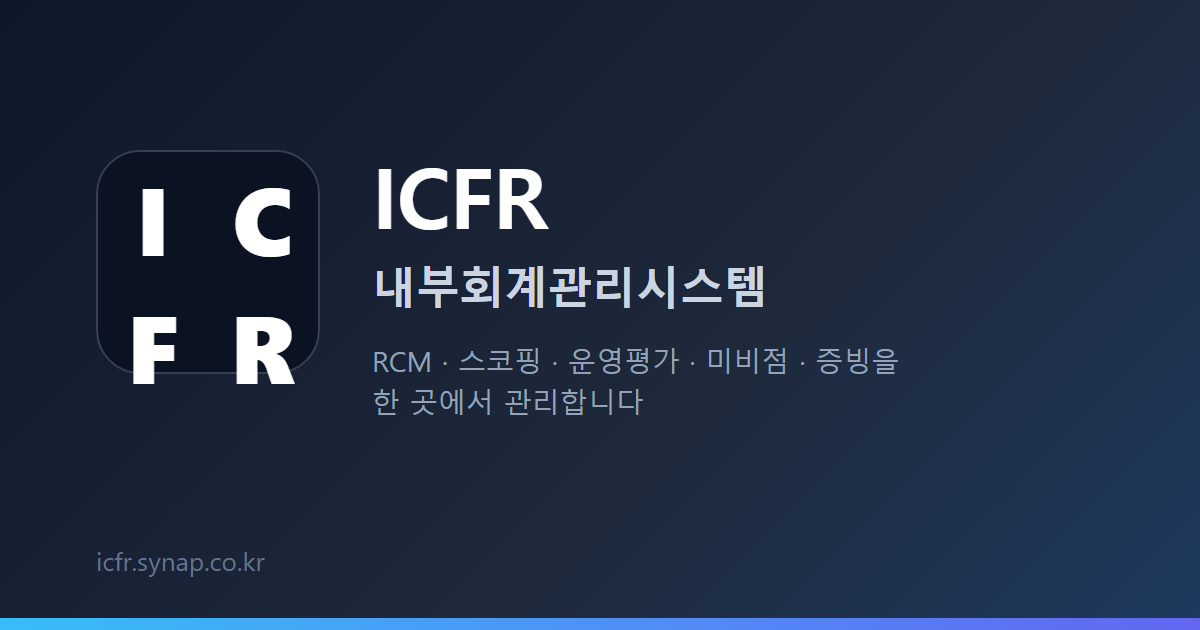
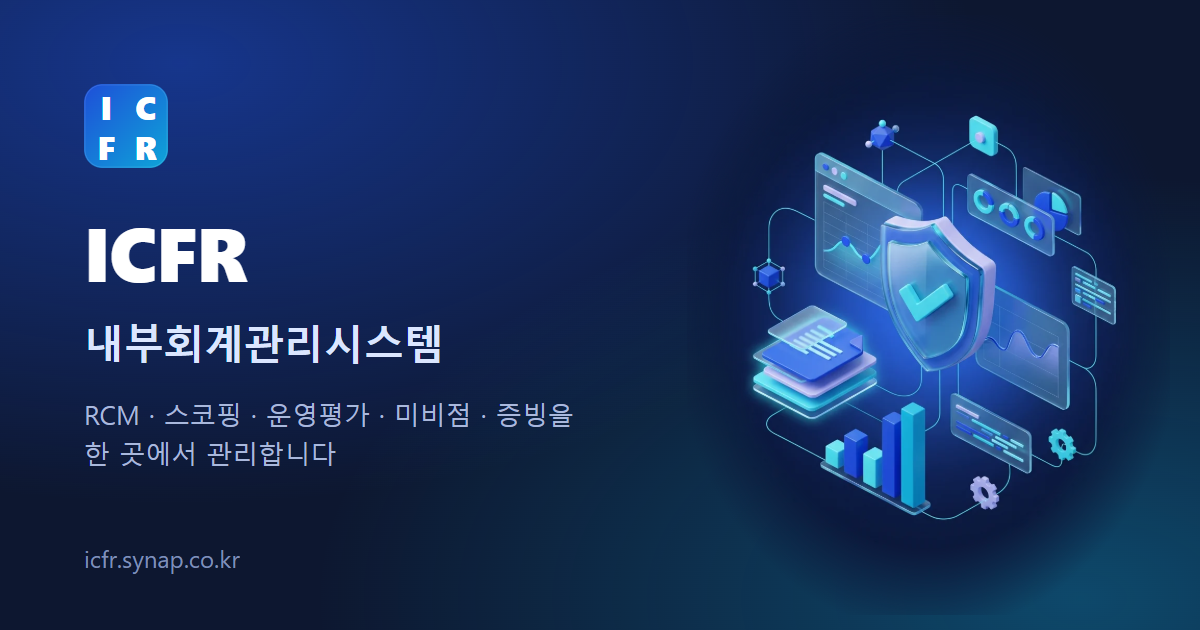
feat(ui): AI 일러스트 9종(synapvideo) 적용 + 아이콘·OG 브랜드 통일 — 13.9-79

diff --git a/frontend/src/components/illustration/manifest.ts b/frontend/src/components/illustration/manifest.ts
@@ -6,12 +6,13 @@
  * 이미지 생성 스크립트(`scripts/gen_illustrations.py`)도 이 파일의 프롬프트를 읽는다 — 프롬프트를 고치면
  * 이 파일만 고친다.
  *
- * 공통 화풍(STYLE)을 모든 프롬프트 앞에 붙여 한 세트로 보이게 한다.
+ * 공통 화풍(STYLE)을 모든 프롬프트 앞에 붙여 한 세트로 보이게 한다. 배경은 놓일 자리에 맞춰 슬롯마다 정한다 —
+ * 밝은 화면용은 흰 배경(화면에서 multiply 로 카드에 녹인다), 로그인 남색 패널용은 남색 배경.
  */
 export const STYLE =
   'Premium enterprise SaaS illustration, soft 3D isometric style, glossy glass and matte surfaces, ' +
   'cobalt blue (#1f4fd1) and cyan (#12a4d9) palette with soft lavender accents, gentle gradients, ' +
-  'clean white background, subtle soft shadows, calm and trustworthy mood, high detail, ' +
+  'subtle soft shadows, calm and trustworthy mood, high detail, ' +
   'no text, no letters, no numbers, no logos, no watermark'
 
 export type IllustrationSlot =
@@ -26,6 +27,8 @@ export type IllustrationSlot =
   | 'empty-finance'
 
 export interface SlotSpec {
+  /** 어두운 배경으로 생성 — 밝은 화면용(흰 배경)은 multiply 로 카드에 녹이고, 어두운 것은 그대로 둔다 */
+  dark?: boolean
   /** 화면에서의 가로세로비 (생성 크기 선택에도 쓴다) */
   aspect: 'portrait' | 'landscape' | 'square' | 'wide'
   alt: string
@@ -35,51 +38,53 @@ export interface SlotSpec {
 export const SLOTS: Record<IllustrationSlot, SlotSpec> = {
   'login-hero': {
     aspect: 'portrait',
+    dark: true,
     alt: '재무 데이터와 통제 체크리스트가 떠 있는 일러스트',
     prompt:
       'A floating composition of translucent financial dashboard cards, a shield with a checkmark, ' +
-      'stacked documents and a bar chart, connected by thin glowing lines, representing internal control over financial reporting',
+      'stacked documents and a bar chart, connected by thin glowing lines, representing internal control over financial reporting, ' +
+      'set on a seamless deep navy blue background (#101a3c) with a soft cobalt glow behind the objects, objects lit with cyan rim light',
   },
   'dashboard-hero': {
     aspect: 'wide',
     alt: '진행 현황을 보여주는 대시보드 일러스트',
     prompt:
       'A wide banner scene: a calm workspace of floating analytics panels, a progress ring, a calendar tile and a checklist, ' +
-      'arranged left to right with generous empty space on the left half for overlaid text',
+      'arranged left to right with generous empty space on the left half for overlaid text, clean pure white background',
   },
   'empty-default': {
     aspect: 'square',
     alt: '빈 상자 일러스트',
-    prompt: 'A single open empty box made of frosted glass with a small sparkle, minimal composition, centered',
+    prompt: 'A single open empty box made of frosted glass with a small sparkle, minimal composition, centered, clean pure white background',
   },
   'empty-search': {
     aspect: 'square',
     alt: '돋보기 일러스트',
-    prompt: 'A glass magnifying glass hovering over a blank card, minimal composition, centered',
+    prompt: 'A glass magnifying glass hovering over a blank card, minimal composition, centered, clean pure white background',
   },
   'empty-upload': {
     aspect: 'square',
     alt: '문서 업로드 일러스트',
-    prompt: 'A document with an upward arrow rising from a soft cloud tray, minimal composition, centered',
+    prompt: 'A document with an upward arrow rising from a soft cloud tray, minimal composition, centered, clean pure white background',
   },
   'empty-report': {
     aspect: 'square',
     alt: '보고서 일러스트',
-    prompt: 'A neat report document with a small pie chart and a signature line, minimal composition, centered',
+    prompt: 'A neat report document with a small pie chart and a signature line, minimal composition, centered, clean pure white background',
   },
   'empty-checklist': {
     aspect: 'square',
     alt: '체크리스트 일러스트',
-    prompt: 'A clipboard checklist with three rows and one glowing checkmark, minimal composition, centered',
+    prompt: 'A clipboard checklist with three rows and one glowing checkmark, minimal composition, centered, clean pure white background',
   },
   'empty-people': {
     aspect: 'square',
     alt: '팀 일러스트',
-    prompt: 'Three abstract rounded person avatars on a soft platform connected by lines, minimal composition, centered',
+    prompt: 'Three abstract rounded person avatars on a soft platform connected by lines, minimal composition, centered, clean pure white background',
   },
   'empty-finance': {
     aspect: 'square',
     alt: '재무제표 일러스트',
-    prompt: 'A balance scale made of glass with stacked coins and a ledger sheet, minimal composition, centered',
+    prompt: 'A balance scale made of glass with stacked coins and a ledger sheet, minimal composition, centered, clean pure white background',
   },
 }

diff --git a/frontend/src/features/dashboard/components/WelcomeHero.tsx b/frontend/src/features/dashboard/components/WelcomeHero.tsx
@@ -19,6 +19,9 @@ export default function WelcomeHero() {
   return (
     <section className="relative overflow-hidden rounded-2xl border border-border/70 bg-card shadow-card">
       <div className="absolute inset-0 bg-[radial-gradient(ellipse_at_top_left,hsl(var(--brand-from)/0.10),transparent_60%),radial-gradient(ellipse_at_bottom_right,hsl(var(--brand-to)/0.10),transparent_55%)]" />
+      {/* 배너 오른쪽 그림 — 왼쪽은 글자 자리라 그림이 오른쪽에 몰려 있다. 좁은 화면에서는 숨긴다 */}
+      <Illustration slot="dashboard-hero"
+        className="pointer-events-none absolute inset-y-0 right-0 hidden h-full w-[62%] object-cover object-right md:block [mask-image:linear-gradient(to_right,transparent,black_35%)]" />
       <div className="relative grid items-center gap-4 p-6 md:grid-cols-[1fr_auto] md:p-8">
         <div className="min-w-0">
           <p className="flex items-center gap-1.5 text-xs font-medium text-muted-foreground">
@@ -44,7 +47,7 @@ export default function WelcomeHero() {
             ))}
           </div>
         </div>
-        <Illustration slot="dashboard-hero" className="hidden h-36 w-[300px] md:block lg:h-40 lg:w-[360px]" />
+        <div className="hidden md:block md:w-[220px] lg:w-[300px]" aria-hidden="true" />
       </div>
     </section>
   )

diff --git a/frontend/src/components/illustration/EmptyState.tsx b/frontend/src/components/illustration/EmptyState.tsx
@@ -25,7 +25,8 @@ export default function EmptyState({
   return (
     <div className={cn('flex flex-col items-center justify-center rounded-xl border border-dashed bg-card/60 text-center',
       compact ? 'gap-2 px-4 py-6' : 'gap-3 px-6 py-10', className)}>
-      <Illustration slot={slot} className={compact ? 'h-20 w-20' : 'h-32 w-32'} />
+      {/* 생성 배경이 완전한 흰색이 아니라 가장자리를 원형으로 사라지게 한다 — 카드 위에 사각 경계가 남지 않게 */}
+      <Illustration slot={slot} className={cn(compact ? 'h-24 w-24' : 'h-36 w-36', '[mask-image:radial-gradient(circle,black_48%,transparent_70%)]')} />
       <p className="text-[15px] font-semibold text-foreground">{title}</p>
       {description && <div className="max-w-md text-sm text-muted-foreground">{description}</div>}
       {action && <div className="mt-1">{action}</div>}

diff --git a/frontend/src/layouts/AuthLayout.tsx b/frontend/src/layouts/AuthLayout.tsx
@@ -26,7 +26,9 @@ export default function AuthLayout() {
           </div>
         </div>
         <div className="relative z-10 flex flex-1 items-center justify-center px-12">
-          <Illustration slot="login-hero" eager className="aspect-[4/5] w-full max-w-[420px] drop-shadow-2xl" />
+          {/* 그림 가장자리를 패널 남색으로 서서히 사라지게 — 사각 경계가 보이지 않게 */}
+          <Illustration slot="login-hero" eager
+            className="aspect-[4/5] w-full max-w-[440px] [mask-image:radial-gradient(ellipse_at_center,black_55%,transparent_78%)]" />
         </div>
         <div className="relative z-10 px-12 pb-12">
           <h2 className="text-[28px] font-bold leading-snug tracking-tight">

diff --git a/frontend/src/components/illustration/Illustration.tsx b/frontend/src/components/illustration/Illustration.tsx
@@ -23,7 +23,7 @@ export default function Illustration({ slot, className, eager }: { slot: Illustr
         loading={eager ? 'eager' : 'lazy'}
         decoding="async"
         draggable={false}
-        className={cn('select-none object-contain', className)}
+        className={cn('select-none object-contain', !spec.dark && 'mix-blend-multiply', className)}
       />
     )
   }

diff --git a/scripts/gen_illustrations.py b/scripts/gen_illustrations.py
@@ -1,26 +1,31 @@
-"""화면 일러스트 생성 — `frontend/src/components/illustration/manifest.ts` 의 슬롯·프롬프트로 이미지를 만든다.
+"""화면 일러스트 생성 — synapvideo(사내 AI 이미지) `POST /images` 로 `manifest.ts` 의 슬롯을 만든다.
 
-**API 키는 이 파일이나 저장소에 두지 않는다**(CLAUDE.md §5). 이 PC 의 Windows 자격 증명 관리자에서 읽는다:
-    서비스 `icfr-image-api` / 사용자 `api_key`   (키)
-    서비스 `icfr-image-api` / 사용자 `base_url`  (게이트웨이 주소 — 비밀은 아니지만 키와 함께 둔다)
-등록·교체는 python -c "import keyring; keyring.set_password('icfr-image-api','api_key','<키>')" 로 한다.
+**API 키는 이 파일이나 저장소에 두지 않는다**(CLAUDE.md §5, synapvideo 안내서 §8). 이 PC 의 Windows 자격 증명
+관리자에서 읽는다:
+    서비스 `icfr-image-api` / 사용자 `api_key`   (svk_… 키)
+    서비스 `icfr-image-api` / 사용자 `base_url`  (https://video.synap.co.kr/api/v1)
+교체: python -c "import keyring; keyring.set_password('icfr-image-api','api_key','<키>')"
 
-호출 형식은 OpenAI 호환 이미지 API(`POST {base_url}/images/generations`, 응답 `data[0].b64_json` 또는 `url`)를
-기본으로 한다. 게이트웨이 형식이 다르면 `call_api()` 만 고친다.
+synapvideo 규칙(GET /guide·/policy — 판이 바뀌면 다시 읽는다):
+- 견적이 자동 승인 금액(policy.cost.autoApproveKrw) 이하면 만들자마자 생성된다. 넘으면 **이 스크립트는 승인하지 않고 멈춘다**
+  — 사람이 금액을 보고 승인해야 한다(--approve 를 줄 때만 승인 호출).
+- 요청자 이메일(user.email) 필수(정책 defaultRequester 가 비어 있음) — --email 또는 기본값.
+- 모든 응답의 X-Guide-Version·X-Policy-Version 을 기억해 두었다가(~/.icfr/synapvideo_versions.json) 바뀌면 다시 읽고 알린다.
 
 사용:
-    python scripts/gen_illustrations.py                 # 없는 슬롯만 생성
-    python scripts/gen_illustrations.py login-hero      # 지정 슬롯만(덮어쓰기)
-    python scripts/gen_illustrations.py --all --variants 2   # 전부, 슬롯당 후보 2장(_v1, _v2 로 저장 → 골라서 이름 변경)
+    python scripts/gen_illustrations.py --me                     # 연결·한도 확인
+    python scripts/gen_illustrations.py                          # 없는 슬롯만
+    python scripts/gen_illustrations.py login-hero --variants 3  # 지정 슬롯 후보 3장(_v1.._v3) → 골라 <slot>.webp 로
 출력: frontend/src/assets/illustrations/<slot>.webp (긴 변 최대 1200px, 품질 86)
 """
 from __future__ import annotations
 
 import argparse
-import base64
 import io
+import json
 import re
 import sys
+import time
 from pathlib import Path
 
 import keyring
@@ -30,9 +35,62 @@ from PIL import Image
 ROOT = Path(__file__).resolve().parents[1]
 MANIFEST = ROOT / "frontend" / "src" / "components" / "illustration" / "manifest.ts"
 OUT = ROOT / "frontend" / "src" / "assets" / "illustrations"
+STATE = Path.home() / ".icfr" / "synapvideo_versions.json"
 SERVICE = "icfr-image-api"
-SIZES = {"portrait": "1024x1536", "landscape": "1536x1024", "wide": "1536x1024", "square": "1024x1024"}
+DEFAULT_EMAIL = "ynjun@synapsoft.co.kr"
+ASPECTS = {"portrait": "4:5", "landscape": "16:9", "wide": "21:9", "square": "1:1"}
 MAX_EDGE = 1200
+
+if hasattr(sys.stdout, "reconfigure"):
+    sys.stdout.reconfigure(encoding="utf-8")
+
+
+class SynapVideo:
+    def __init__(self) -> None:
+        self.key = keyring.get_password(SERVICE, "api_key")
+        self.base = (keyring.get_password(SERVICE, "base_url") or "").rstrip("/")
+        if not self.key or not self.base:
+            sys.exit("자격 증명 관리자에 icfr-image-api (api_key·base_url) 가 없습니다")
+        self.h = {"Authorization": f"Bearer {self.key}"}
+        self.versions = json.loads(STATE.read_text(encoding="utf-8")) if STATE.exists() else {}
+        self.policy: dict = {}
+
+    def _check_versions(self, r: requests.Response) -> None:
+        g, p = r.headers.get("X-Guide-Version"), r.headers.get("X-Policy-Version")
+        changed = []
+        STATE.parent.mkdir(parents=True, exist_ok=True)
+        if g and g != self.versions.get("guide"):
+            changed.append(f"안내서 {self.versions.get('guide')} → {g}")
+            guide = requests.get(f"{self.base}/guide", headers=self.h, timeout=60).text
+            (STATE.parent / "synapvideo_guide.md").write_text(guide, encoding="utf-8")
+            self.versions["guide"] = g
+        if p and p != self.versions.get("policy"):
+            changed.append(f"원칙 {self.versions.get('policy')} → {p}")
+            self.policy = requests.get(f"{self.base}/policy", headers=self.h, timeout=60).json()
+            self.versions["policy"] = p
+        if changed:
+            STATE.parent.mkdir(parents=True, exist_ok=True)
+            STATE.write_text(json.dumps(self.versions), encoding="utf-8")
+            print("· synapvideo 갱신 감지 —", ", ".join(changed), f"(최신 안내서: {STATE.parent / 'synapvideo_guide.md'})")
+
+    def call(self, method: str, path: str, body: dict | None = None) -> dict:
+        r = requests.request(method, self.base + path, json=body, headers=self.h, timeout=180)
+        self._check_versions(r)
+        j = r.json()
+        if not r.ok:
+            e = j.get("error", {})
+            raise RuntimeError(f"{r.status_code} {e.get('code')}: {e.get('message')}")
+        return j
+
+    def load_policy(self) -> dict:
+        if not self.policy:
+            self.policy = self.call("GET", "/policy")
+        return self.policy
+
+    def download(self, url: str) -> bytes:
+        r = requests.get(url, headers=self.h, timeout=120)
+        r.raise_for_status()
+        return r.content
 
 
 def load_manifest() -> tuple[str, dict[str, dict]]:
@@ -49,30 +107,6 @@ def load_manifest() -> tuple[str, dict[str, dict]]:
     return style, slots
 
 
-def creds() -> tuple[str, str]:
-    key = keyring.get_password(SERVICE, "api_key")
-    base = keyring.get_password(SERVICE, "base_url")
-    if not key:
-        sys.exit("API 키가 자격 증명 관리자에 없습니다 (icfr-image-api / api_key)")
-    if not base:
-        sys.exit("게이트웨이 주소가 없습니다 — keyring.set_password('icfr-image-api','base_url','https://…/v1')")
-    return key, base.rstrip("/")
-
-
-def call_api(key: str, base: str, prompt: str, size: str, model: str | None) -> bytes:
-    body = {"prompt": prompt, "size": size, "n": 1}
-    if model:
-        body["model"] = model
-    r = requests.post(f"{base}/images/generations", json=body, timeout=300,
-                      headers={"Authorization": f"Bearer {key}", "Content-Type": "application/json"})
-    if r.status_code >= 400:
-        raise RuntimeError(f"{r.status_code} {r.text[:300]}")
-    d = r.json()["data"][0]
-    if d.get("b64_json"):
-        return base64.b64decode(d["b64_json"])
-    return requests.get(d["url"], timeout=120).content
-
-
 def save_webp(raw: bytes, path: Path) -> int:
     im = Image.open(io.BytesIO(raw))
     im = im.convert("RGBA") if im.mode in ("RGBA", "LA", "P") else im.convert("RGB")
@@ -82,26 +116,61 @@ def save_webp(raw: bytes, path: Path) -> int:
     return path.stat().st_size
 
 
+def generate(sv: SynapVideo, name: str, prompts: list[str], aspect: str, email: str, approve: bool) -> list[bytes]:
+    p = sv.call("POST", "/images", {"prompts": prompts, "aspect": aspect, "title": f"[ICFR] 화면 일러스트 {name}",
+                                    "user": {"email": email}})
+    pid = p["id"]
+    auto = int(sv.load_policy()["cost"]["autoApproveKrw"])
+    poll = int(sv.policy.get("behavior", {}).get("pollIntervalSec", 4))
+    deadline = time.time() + 900
+    while True:
+        st = sv.call("GET", f"/projects/{pid}")
+        quotes = st.get("pendingQuotes") or []
+        if quotes:
+            q = quotes[0]
+            if int(q["totalKrw"]) > auto and not approve:
+                raise RuntimeError(f"견적 {q['totalKrw']}원 > 자동 승인 {auto}원 — 사람 승인 필요(--approve, 프로젝트 {pid})")
+            if approve:
+                sv.call("POST", f"/quotes/{q['id']}/approve", {"user": {"email": email}, "expectedKrw": q["totalKrw"]})
+        shots = (st.get("storyboard") or {}).get("shots") or []
+        done = [s for s in shots if s.get("status") == "succeeded" and s.get("result")]
+        failed = [s for s in shots if s.get("status") == "failed"]
+        if shots and len(done) + len(failed) == len(shots) and st.get("stage") not in ("generating",):
+            print(f"  프로젝트 {pid} · 비용 {st.get('cost', {}).get('spentKrw')}원 · 성공 {len(done)} 실패 {len(failed)}")
+            return [sv.download(s["result"]["url"]) for s in done]
+        if time.time() > deadline:
+            raise RuntimeError(f"시간 초과(프로젝트 {pid}, stage={st.get('stage')})")
+        time.sleep(poll)
+
+
 def main() -> None:
     ap = argparse.ArgumentParser()
     ap.add_argument("slots", nargs="*")
     ap.add_argument("--all", action="store_true")
-    ap.add_argument("--variants", type=int, default=1)
-    ap.add_argument("--model", default=None)
+    ap.add_argument("--variants", type=int, default=1, help="슬롯당 후보 수(1~4)")
+    ap.add_argument("--email", default=DEFAULT_EMAIL, help="요청자(비용 기록) 이메일")
+    ap.add_argument("--approve", action="store_true", help="자동 승인 금액을 넘는 견적도 승인(사람이 금액을 확인한 뒤에만)")
+    ap.add_argument("--me", action="store_true")
     a = ap.parse_args()
+    sv = SynapVideo()
+    if a.me:
+        print(sv.call("GET", "/me"))
+        pol = sv.load_policy()
+        print("자동 승인", pol["cost"]["autoApproveKrw"], "· 이번 달 남은 금액", pol["usage"]["remainingThisMonthKrw"])
+        return
     style, slots = load_manifest()
-    key, base = creds()
     targets = a.slots or [s for s in slots if a.all or not (OUT / f"{s}.webp").exists()]
+    n = max(1, min(4, a.variants))
     for name in targets:
         spec = slots[name]
-        prompt = f"{style}. {spec['prompt']}"
-        for v in range(1, a.variants + 1):
-            out = OUT / (f"{name}.webp" if a.variants == 1 else f"{name}_v{v}.webp")
-            try:
-                size = save_webp(call_api(key, base, prompt, SIZES[spec["aspect"]], a.model), out)
-                print(f"OK  {out.name}  {size // 1024}KB")
-            except Exception as e:  # 한 장 실패가 전체를 멈추지 않게
-                print(f"ERR {name} v{v}: {e}")
+        try:
+            imgs = generate(sv, name, [f"{style}. {spec['prompt']}"] * n, ASPECTS[spec["aspect"]], a.email, a.approve)
+        except Exception as e:  # 한 슬롯 실패가 전체를 멈추지 않게
+            print(f"ERR {name}: {e}")
+            continue
+        for i, raw in enumerate(imgs, start=1):
+            out = OUT / (f"{name}.webp" if n == 1 else f"{name}_v{i}.webp")
+            print(f"OK  {out.name}  {save_webp(raw, out) // 1024}KB")
 
 
 if __name__ == "__main__":

diff --git a/ClaudeICFR.md b/ClaudeICFR.md
@@ -2288,6 +2288,7 @@ HTTP 200
 76. **평가 쓰기 가드 — 테스트·미비점·개선계획·설계평가·RAWC (2026-10-02, EVAL-01 R2)** — 20개 쓰기 엔드포인트(`test_module.py` 10·`remediation.py` 10)가 `CurrentUser` 만 받아 **external_auditor 가 평가 데이터를 생성·전이·승인할 수 있었다**(ADR-0031 §2.1 위반). 전부 `Depends(require_write)` 로 전환 — 로직 무변경, 외부감사인 외 사용자 영향 없음. `tests/test_eval_write_guard.py` 22건: 20개 403 파라미터화 + 조회 유지 + **라우터 쓰기 경로 전수 대조**(새 쓰기 엔드포인트가 목록 밖이면 실패). 가드 제거 시 20건 실패 확인(mutation check). FE: `features/auth/useCanWrite.ts` 신설, 테스트 검색바·빈 목록·상세(편집·단계·전이)·미비점 등록/행 편집·삭제·개선계획 등록·전이·RAWC 입력/편집 버튼을 조회 전용 사용자에게 숨김/비활성. 로컬 브라우저 admin vs external_auditor 대조 확인. 로컬 데이터: `auditor@acme.example`(external_auditor) 계정 1건 — 로컬 DB 한정. **범위 밖(후속)**: 승인 직무분리(R3, Q1·Q3 답 대기). 
 77. **RCM 쓰기 가드 — ✅ 2026-10-02 완료** — `api/rcm.py` 쓰기 **20개**(프로세스·하위프로세스·위험·위험분류 각 3, 통제 3, bulk 2, 어서션 2, upload-excel 1)가 `require_write` 없이 외부감사인 쓰기 허용 상태였음 → 전부 `Depends(require_write)`. upload-excel 은 preview 포함 전체 차단(모드별 가드 분리 시 판정 이원화). `tests/test_rcm_write_guard.py` 22건(20개 403 + 조회 유지 + 라우터 경로 전수 대조), 가드 제거 시 20건 실패 확인. FE: `RcmPage` 가 `useCanWrite` false 면 쓰기 핸들러를 넘기지 않고 `ControlTable`(추가·엑셀·행 편집/삭제)·`ControlDetailSheet`(편집)가 핸들러 있을 때만 버튼 렌더. 계층 관리 탭은 기존 `canEditHierarchy` 유지. 로컬 브라우저 admin vs external_auditor 대조 확인.
 78. **7-B 매뉴얼 패널 UI + 유의 계정↔RCM 커버리지 + Report 실무 양식 (초안, 2026-10-03, 마스터 위임 "판단해서 완성 단계까지")** — 마이그레이션 없음. ① **7-B 패널**(`features/help/`): 상단 "도움말" 버튼·F1, 현재 화면의 `menu.<route>` → `screen.<route>.*` → 용어 순. **1280px 이상은 본문을 밀고(폭 280~640px 드래그, 기본 360, localStorage)**, 미만은 오른쪽 시트로 겹침(13.9-8 결정 그대로). `HelpButton`(?)·`HelpTerm`(점선 밑줄) 표식을 대시보드·스코핑·RCM·사용자·부서·EUC·IUC·Report 에 부착. 본문 없는 키는 "아직 설명이 작성되지 않았습니다"(지어내지 않음). 문구: 빈 메뉴 6개(일정관리·Report·메일발송·역할 배정·정책·회계연도) 작성 + 신규 screen 키 8개(재무제표 4·스코핑 커버리지·로그인 기록·Report 2) → 53키, 빈 키 0(테스트 기대값 갱신). 운영 반영은 `seeds.seed_help_texts` 재실행(멱등). ② **재무제표→스코핑 흐름 점검에서 찾은 공백**: 유의 계정이 정해져도 RCM 통제와 연결해 볼 길이 없었다(RCM `related_accounts` 자유 텍스트). `GET /api/scoping/{id}/coverage`(`services/scoping_coverage.py`, 저장 안 함) — 유의 계정(최종 Y, 확정이면 스냅샷)마다 이름 대조로 대응 통제 추정(exact/partial, 2자 토큰은 부분일치 제외), `전 계정`은 전사 통제로 별도 집계, 맞지 않는 RCM 표기 목록(오타 점검). 동의어 4개(우발부채/우발채무·판매관리비·매출·부가세예수금)는 실데이터 대조에서 나온 것만. 로컬 실샘플(2025 FS→2026 스코핑 212계정): BS/PL 중 82개 대응 추정, RCM 오타 `마자급금` 발견. 스코핑 화면 "통제 커버리지" 카드. ③ **Report**: 운영실태 보고서(Ⅰ개요~Ⅴ결론·서명란) + 감사(위원회) 평가보고서 탭, 수치는 전부 라이브 데이터·없으면 "—"+채울 메뉴 안내, 결론 문구 자동 선택(미종결 중요한 취약점 유무) "초안 문구" 표시, A4 인쇄. **마스터 결정 대기(Report)**: 미비점 severity(high/medium/low)→중요한 취약점/유의한 미비점/단순한 미비점 대응은 가정 — 등급 필드 별도 필요 여부, 전사통제·ITGC 분류 출처(RCM 에 없음), 평가 기준일(12월 결산 가정 — 회계연도 시작월 설정 연동 여부), 기중 종결 중요한 취약점 처리, 서명란(감사위원회/감사), 1000건 초과 집계. ④ 일정관리 매칭은 Regina 작업 영역(13.9-75)이라 손대지 않음, 메일발송은 마스터 지시로 제외. 검증: 백엔드 전체 574 passed·FE vitest 137·tsc·build, 로컬 브라우저(1440·390px) 패널·커버리지·Report 콘솔 오류 0, 모바일 가로 넘침 0. **운영 반영(2026-10-03)**: `ace157a` 배포, 백업 `db/2026/10/icfr_db_20261003_130128.sql.gz.age`(119,841B) 후 도움말 시드 생성 9·갱신 6·유지 38 → 재실행 변경 없음 53, 운영 53키 전부 본문 있음.
+79. **디자인 전면 개선 + AI 일러스트 (2026-10-03, 마스터 전권 위임 "글로벌 서비스 수준, 승인 없이 최종안·배포까지")** — 마이그레이션 없음, FE 만. ① **디자인 토큰**: 브랜드 코발트 블루(`--primary 224 76% 46%`)·옅은 회청 캔버스·흰 카드(`shadow-card`)·반경 0.75rem·성공/경고색, 글꼴 **Pretendard**(npm 번들, 하위 집합은 미리 받지 않고 런타임 CacheFirst — PWA 사전 캐시 1.5MB 유지), 표 숫자 tabular, 한글 `word-break: keep-all`. ② **사이드바**: 그라데이션 로고 마크(`components/brand/LogoMark`), 선택 = 옅은 브랜드 바탕 + 왼쪽 막대(`--sidebar-indicator`), 테마 3종 색 재정의·색 견본 선택, 이니셜 아바타·아이콘 버튼. 상단 바에 현재 메뉴명. ③ **로그인** 분할(남색 브랜드 패널 + 폼), **대시보드** 환영 배너, **빈 상태 25곳** `EmptyState`(일러스트+안내+다음 행동), 페이지 틀·표 머리글 통일(작업 에이전트). ④ **AI 일러스트 9종** — synapvideo(사내 AI, `POST /images`)로 생성: 슬롯·프롬프트 단일 원천 `components/illustration/manifest.ts`, 파일 `src/assets/illustrations/<slot>.webp` 가 있으면 자동 사용(없으면 그라데이션 대체). 후보 19장(₩1,710) 중 선택, 흰 배경은 multiply·원형 마스크로 카드에 녹임. 생성 스크립트 `scripts/gen_illustrations.py` — **키는 이 PC Windows 자격 증명 관리자(`icfr-image-api`)에서만 읽음, 저장소·운영 서버에는 없음**, 자동 승인 금액(₩10,000) 초과 견적은 멈추고 사람 승인(--approve), 응답 헤더 `X-Guide-Version`·`X-Policy-Version` 변경 시 `/guide`·`/policy` 재조회(~/.icfr). ⑤ 파비콘·PWA 아이콘·OG 이미지(생성 일러스트 사용) 브랜드 통일. 검증: FE vitest 137·tsc·build, 로컬 브라우저(1440·390px) 콘솔 오류 0·모바일 가로 넘침 0. **운영 앱 기능으로 synapvideo 를 쓰게 되면** 그때 서버 env(`SYNAPVIDEO_API_URL`·`_KEY`)와 서버 프록시를 붙인다(브라우저에 키 금지 — 안내서 §8).
 
 ### Claude에게 주는 다음 세션 지시
 > "ClaudeICFR.md를 읽고, 섹션 12에서 다음 작업을 확인한 뒤 진행. 작업 종료 시 섹션 12·13·14 업데이트 필수."
@@ -2298,6 +2299,7 @@ HTTP 200
 
 > 날짜 / 변경자 / 요약. 최신이 위로.
 
+- **2026-10-03 / TrustBuilder + Claude** — **디자인 전면 개선 + AI 일러스트** (마이그레이션 없음, 13.9-79). 브랜드 토큰·Pretendard·사이드바·로그인·대시보드 배너·빈 상태 25곳, synapvideo 로 일러스트 9종 생성(₩1,710), 아이콘·OG 통일. 키는 로컬 자격 증명 관리자에만.
 - **2026-10-03 / TrustBuilder + Claude** — **7-B 매뉴얼 패널 + 스코핑 통제 커버리지 + Report 실무 양식** (마이그레이션 없음, 13.9-78). 우측 도움말 패널(넓은 화면 본문 밀림·폭 조절, 좁은 화면 겹침)과 화면 표식, 문구 53키(빈 키 0). 유의 계정↔RCM 통제 이름 대조 커버리지 API·카드. Report 를 운영실태 보고서·감사(위원회) 평가보고서 구조로. 운영 도움말 시드 재실행.
 - **2026-10-02 / Regina + Claude** — **RCM 쓰기 가드** (마이그레이션 없음, 13.9-77). RCM 쓰기 20개 `require_write`(external_auditor 403, upload-excel preview 포함) + 경로 전수 대조 테스트 22건 + FE 통제 탭 쓰기 버튼 숨김.
 - **2026-10-02 / Regina + Claude** — **평가 쓰기 가드** (마이그레이션 없음, 13.9-76). 테스트·미비점·개선계획·설계평가·RAWC 쓰기 20개 `require_write`(external_auditor 403) + 경로 전수 대조 테스트 22건 + FE `useCanWrite` 버튼 숨김. RCM 쓰기 20개 동일 누락 발견 → 13.9-77 등록.
